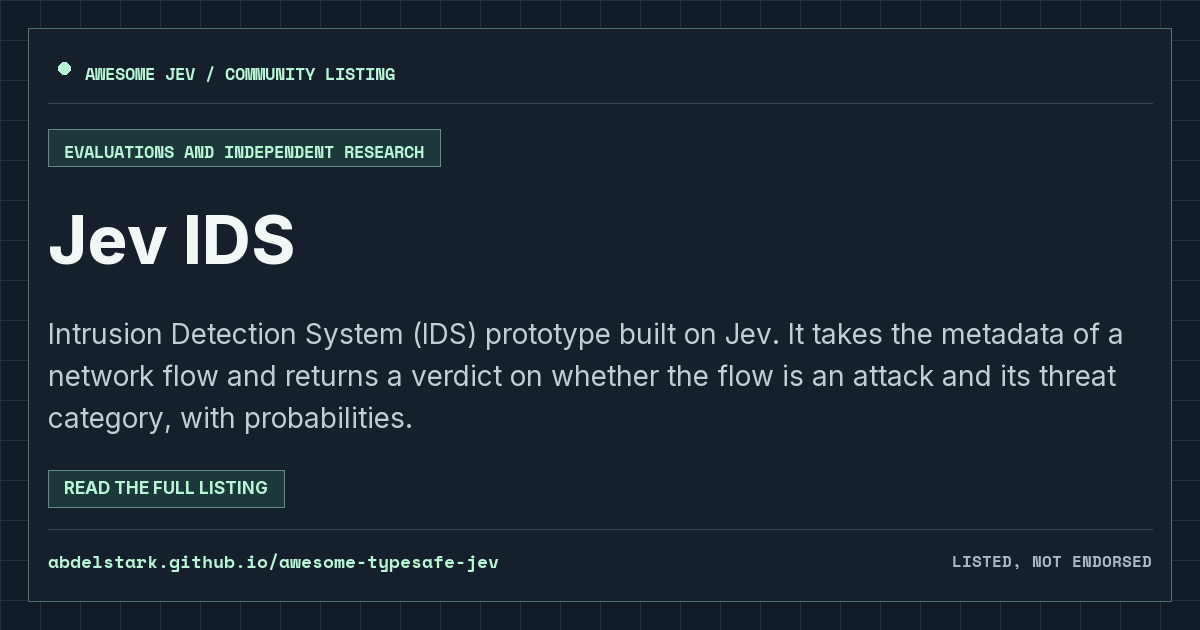
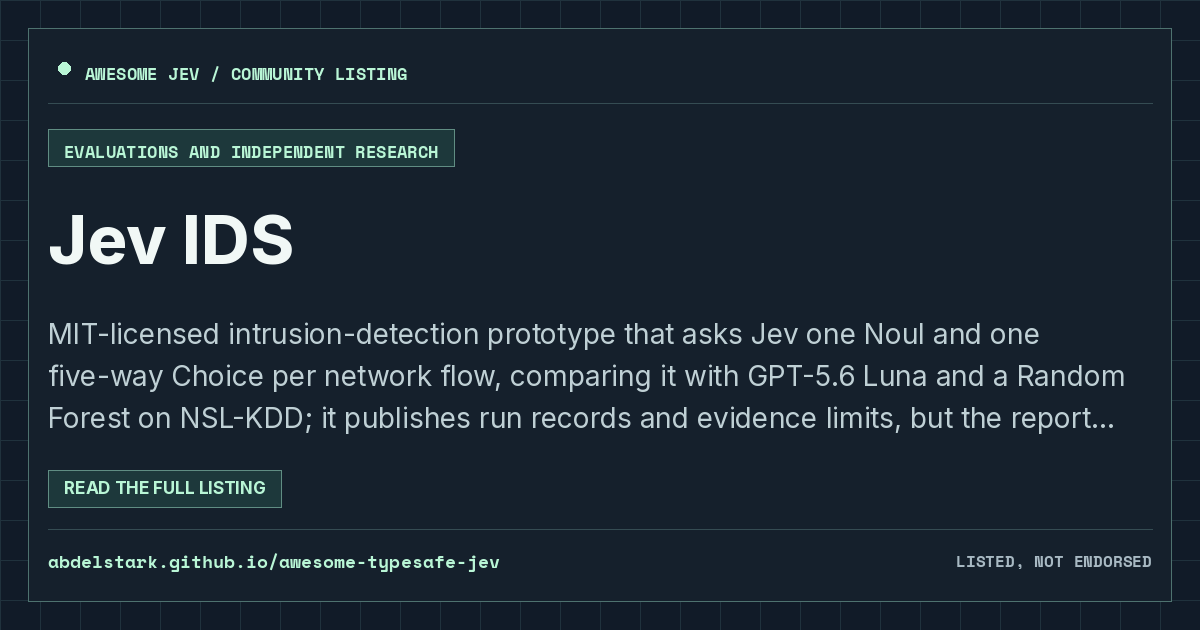
Regenerate Jev IDS listing artifacts after review

diff --git a/projects/gh-jev-ids-jev-ids.html b/projects/gh-jev-ids-jev-ids.html
@@ -1,12 +1,12 @@
 ---
 layout: "resource"
 title: "Jev IDS | Awesome Jev"
-description: "Intrusion Detection System (IDS) prototype built on Jev. It takes the metadata of a network flow and returns a verdict on whether the flow is an attack and its threat category, with probabilities."
+description: "MIT-licensed intrusion-detection prototype that asks Jev one Noul and one five-way Choice per network flow, comparing it with GPT-5.6 Luna and a Random Forest on NSL-KDD; it publishes run records and evidence limits, but the reported results are a 300-flow pilot and the gateway masks Jev's exact version."
 permalink: "/projects/gh-jev-ids-jev-ids/"
 resource_name: "Jev IDS"
 resource_slug: "gh-jev-ids-jev-ids"
 resource_url: "https://github.com/jev-ids/jev-ids"
-description_markdown: "Intrusion Detection System (IDS) prototype built on Jev. It takes the metadata of a network flow and returns a verdict on whether the flow is an attack and its threat category, with probabilities."
+description_markdown: "MIT-licensed intrusion-detection prototype that asks Jev one Noul and one five-way Choice per network flow, comparing it with GPT-5.6 Luna and a Random Forest on NSL-KDD; it publishes run records and evidence limits, but the reported results are a 300-flow pilot and the gateway masks Jev's exact version."
 category_name: "Evaluations and independent research"
 category_id: "evaluations-and-independent-research"
 social_image: "/assets/cards/gh-jev-ids-jev-ids.png"

diff --git a/projects/gh-ghubnab99-jev-enterprise-decision-fabric.html b/projects/gh-ghubnab99-jev-enterprise-decision-fabric.html
@@ -13,7 +13,7 @@ social_image: "/assets/cards/gh-ghubnab99-jev-enterprise-decision-fabric.png"
 related:
   - name: "Jev IDS"
     permalink: "/projects/gh-jev-ids-jev-ids/"
-    description: "Intrusion Detection System (IDS) prototype built on Jev. It takes the metadata of a network flow and returns a verdict on whether the flow is an attack and its threat category, with probabilities."
+    description: "MIT-licensed intrusion-detection prototype that asks Jev one Noul and one five-way Choice per network flow, comparing it with GPT-5.6 Luna and a Random Forest on NSL-KDD; it publishes run records and evidence limits, but the reported results are a 300-flow pilot and the gateway masks Jev's exact version."
     image: "/assets/cards/gh-jev-ids-jev-ids.png"
   - name: "Jev Judge vs Dimension Scores"
     permalink: "/projects/site-agentjournal-dev-blog-llm-judge-vs-feature-extraction/"

diff --git a/projects/gh-zaious-jev-capability-atlas.html b/projects/gh-zaious-jev-capability-atlas.html
@@ -17,7 +17,7 @@ related:
     image: "/assets/cards/gh-ghubnab99-jev-enterprise-decision-fabric.png"
   - name: "Jev IDS"
     permalink: "/projects/gh-jev-ids-jev-ids/"
-    description: "Intrusion Detection System (IDS) prototype built on Jev. It takes the metadata of a network flow and returns a verdict on whether the flow is an attack and its threat category, with probabilities."
+    description: "MIT-licensed intrusion-detection prototype that asks Jev one Noul and one five-way Choice per network flow, comparing it with GPT-5.6 Luna and a Random Forest on NSL-KDD; it publishes run records and evidence limits, but the reported results are a 300-flow pilot and the gateway masks Jev's exact version."
     image: "/assets/cards/gh-jev-ids-jev-ids.png"
   - name: "Jev Judge vs Dimension Scores"
     permalink: "/projects/site-agentjournal-dev-blog-llm-judge-vs-feature-extraction/"

diff --git a/categories/evaluations-and-independent-research.html b/categories/evaluations-and-independent-research.html
@@ -29,7 +29,7 @@ resources:
     image: "/assets/cards/gh-ghubnab99-jev-enterprise-decision-fabric.png"
   - name: "Jev IDS"
     url: "https://github.com/jev-ids/jev-ids"
-    description: "Intrusion Detection System (IDS) prototype built on Jev. It takes the metadata of a network flow and returns a verdict on whether the flow is an attack and its threat category, with probabilities."
+    description: "MIT-licensed intrusion-detection prototype that asks Jev one Noul and one five-way Choice per network flow, comparing it with GPT-5.6 Luna and a Random Forest on NSL-KDD; it publishes run records and evidence limits, but the reported results are a 300-flow pilot and the gateway masks Jev's exact version."
     permalink: "/projects/gh-jev-ids-jev-ids/"
     image: "/assets/cards/gh-jev-ids-jev-ids.png"
   - name: "Jev Judge vs Dimension Scores"

diff --git a/projects/gh-logan-markewich-jeff.html b/projects/gh-logan-markewich-jeff.html
@@ -21,6 +21,6 @@ related:
     image: "/assets/cards/gh-ghubnab99-jev-enterprise-decision-fabric.png"
   - name: "Jev IDS"
     permalink: "/projects/gh-jev-ids-jev-ids/"
-    description: "Intrusion Detection System (IDS) prototype built on Jev. It takes the metadata of a network flow and returns a verdict on whether the flow is an attack and its threat category, with probabilities."
+    description: "MIT-licensed intrusion-detection prototype that asks Jev one Noul and one five-way Choice per network flow, comparing it with GPT-5.6 Luna and a Random Forest on NSL-KDD; it publishes run records and evidence limits, but the reported results are a 300-flow pilot and the gateway masks Jev's exact version."
     image: "/assets/cards/gh-jev-ids-jev-ids.png"
 ---
